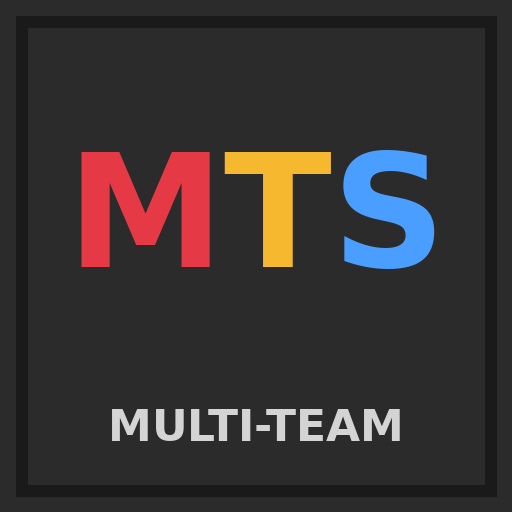
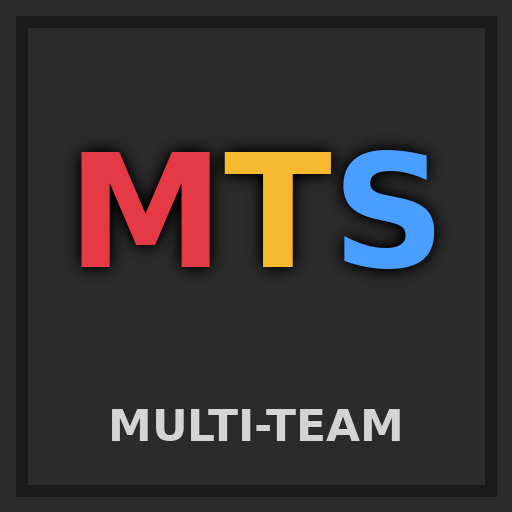
thumbnail: LTR's black drop shadow behind the mark
Takes the halo from Land Title Registry unchanged -- centred black, radius
8 at strength 1.5, no offset to one side -- so the two cards read as the
same house style. Black rather than white because the ground is already
dark: the halo sinks into it as depth beneath the glyphs instead of a rim
drawn around them.

The card was drawn by hand rather than generated, and no font and size on
this machine reproduces it, so tools/gen_thumbnail.py does not redraw it.
It reads the untouched original, now kept at tools/thumbnail-flat.png,
recovers the ink as a coverage mask by projecting each pixel onto the line
between the ground and each ink colour, and re-composites it over a ground
carrying the halo. Written as a delta rather than as pasted layers, which
keeps every pixel the halo does not reach byte-identical: 31788 pixels
change, all of them darkened, none of them ink or frame.

Regenerating from the flat card rather than from thumbnail.png also makes
the tool idempotent -- a second run reproduces the same bytes instead of
stacking a second shadow. tools/ is excluded from the release zip, so the
extra copy does not ship.

diff --git a/tools/gen_thumbnail.py b/tools/gen_thumbnail.py
@@ -1,0 +1,140 @@
+#!/usr/bin/env python3
+"""Generate thumbnail.png — the mod-portal card, by laying Land Title
+Registry's drop shadow behind the MTS mark.
+
+The card itself was drawn by hand, not by a script, so this tool does not
+redraw it: it reads the untouched original from tools/thumbnail-flat.png,
+recovers the ink (the three mark letters and the subtitle) as a mask with
+per-pixel coverage, and re-composites it over a ground that carries the
+shadow. Everything but the shadow therefore comes through byte for byte —
+the letters keep their exact anti-aliased edges, and re-running the tool
+reproduces the same output rather than stacking a second shadow.
+
+The shadow is LTR's, unchanged (see land-title-registry/tools/gen_thumbnail.py):
+a centred black halo, no offset to one side. Black rather than white because
+the ground is dark, so the halo sinks into it and reads as depth beneath the
+glyphs instead of a rim drawn around them. Strength lifts the blur's
+midtones; past roughly 2 the halo stops falling off and becomes a plate.
+
+Only the mark is haloed. The subtitle is left flat, as it is on LTR's card.
+
+Run from the repo root:  python3 tools/gen_thumbnail.py
+"""
+
+from pathlib import Path
+
+from PIL import Image, ImageDraw, ImageFilter
+
+SIZE = 512
+BG = (43, 43, 43)
+FRAME = (26, 26, 26)
+FRAME_INSET = 16
+FRAME_WIDTH = 12
+
+HALO = (0, 0, 0)
+HALO_RADIUS = 8
+HALO_STRENGTH = 1.5
+
+# The card's ink, sampled from the original. The mark carries the same three
+# team colors the mod uses for teams 1-3; the subtitle is plain grey.
+MARK_COLORS = ((230, 57, 70), (245, 184, 46), (74, 158, 255))
+SUBTITLE_COLOR = (212, 212, 212)
+
+# Squared per-channel slack allowed when deciding an anti-aliased pixel really
+# is a blend of the ground and one ink. Pixels further off every ink's line
+# than this are ground, not ink.
+INK_TOLERANCE = 12 ** 2
+
+
+def ground_image():
+    """The card with its ink removed: charcoal, and the frame band over it."""
+    img = Image.new("RGB", (SIZE, SIZE), BG)
+    d = ImageDraw.Draw(img)
+    far = SIZE - FRAME_INSET
+    d.rectangle([FRAME_INSET, FRAME_INSET, far, far], outline=FRAME, width=FRAME_WIDTH)
+    return img
+
+
+def mark_coverage(card, ground):
+    """How much of each pixel the MARK covers, 0-255.
+
+    An ink pixel is the ground blended toward one ink color, so projecting it
+    onto each ink's line and keeping the closest fit recovers both which ink
+    drew it and how far the blend went. The subtitle is recovered too, only to
+    be dropped — it is what keeps grey anti-aliasing from being mistaken for a
+    faint edge of the blue S and picking up a shadow it should not have.
+    """
+    cp, gp = card.load(), ground.load()
+    mask = Image.new("L", (SIZE, SIZE), 0)
+    mp = mask.load()
+
+    inks = MARK_COLORS + (SUBTITLE_COLOR,)
+    for y in range(SIZE):
+        for x in range(SIZE):
+            pixel, base = cp[x, y], gp[x, y]
+            if pixel == base:
+                continue
+            best = None
+            for ink in inks:
+                span = tuple(ink[i] - base[i] for i in range(3))
+                den = sum(v * v for v in span)
+                if den == 0:
+                    continue
+                t = sum((pixel[i] - base[i]) * span[i] for i in range(3)) / den
+                t = min(1.0, max(0.0, t))
+                off = sum((pixel[i] - (base[i] + t * span[i])) ** 2 for i in range(3))
+                if best is None or off < best[0]:
+                    best = (off, t, ink)
+            if best is None:
+                continue
+            off, t, ink = best
+            if off <= INK_TOLERANCE and ink in MARK_COLORS:
+                mp[x, y] = round(t * 255)
+    return mask
+
+
+def halo_for(mask):
+    """A blurred copy of the mark's coverage, to sit directly behind it."""
+    halo = mask.filter(ImageFilter.GaussianBlur(HALO_RADIUS))
+    return halo.point(lambda v: min(255, int(v * HALO_STRENGTH)))
+
+
+def build(root):
+    card = Image.open(root / "tools/thumbnail-flat.png").convert("RGB")
+    if card.size != (SIZE, SIZE):
+        raise SystemExit(f"expected a {SIZE}x{SIZE} card, got {card.size[0]}x{card.size[1]}")
+
+    ground = ground_image()
+    mask = mark_coverage(card, ground)
+    halo = halo_for(mask)
+
+    # Halo under the ink, ink over it: darkening the ground by the halo and
+    # then letting the ink sit back on top is the same composite the LTR
+    # script builds by pasting layers, written as a delta so every pixel the
+    # halo does not reach stays exactly as the original drew it.
+    out = card.copy()
+    op = out.load()
+    cp, gp, mp, hp = card.load(), ground.load(), mask.load(), halo.load()
+    for y in range(SIZE):
+        for x in range(SIZE):
+            shade = hp[x, y]
+            if shade == 0:
+                continue
+            behind = (255 - mp[x, y]) / 255  # the ground still showing through
+            drop = shade / 255 * behind
+            base, pixel = gp[x, y], cp[x, y]
+            op[x, y] = tuple(
+                max(0, round(pixel[i] - (base[i] - HALO[i]) * drop)) for i in range(3)
+            )
+    return out
+
+
+def main():
+    root = Path(__file__).resolve().parent.parent
+    out = root / "thumbnail.png"
+    build(root).save(out, optimize=True)
+    print(f"wrote {out}")
+
+
+if __name__ == "__main__":
+    main()
